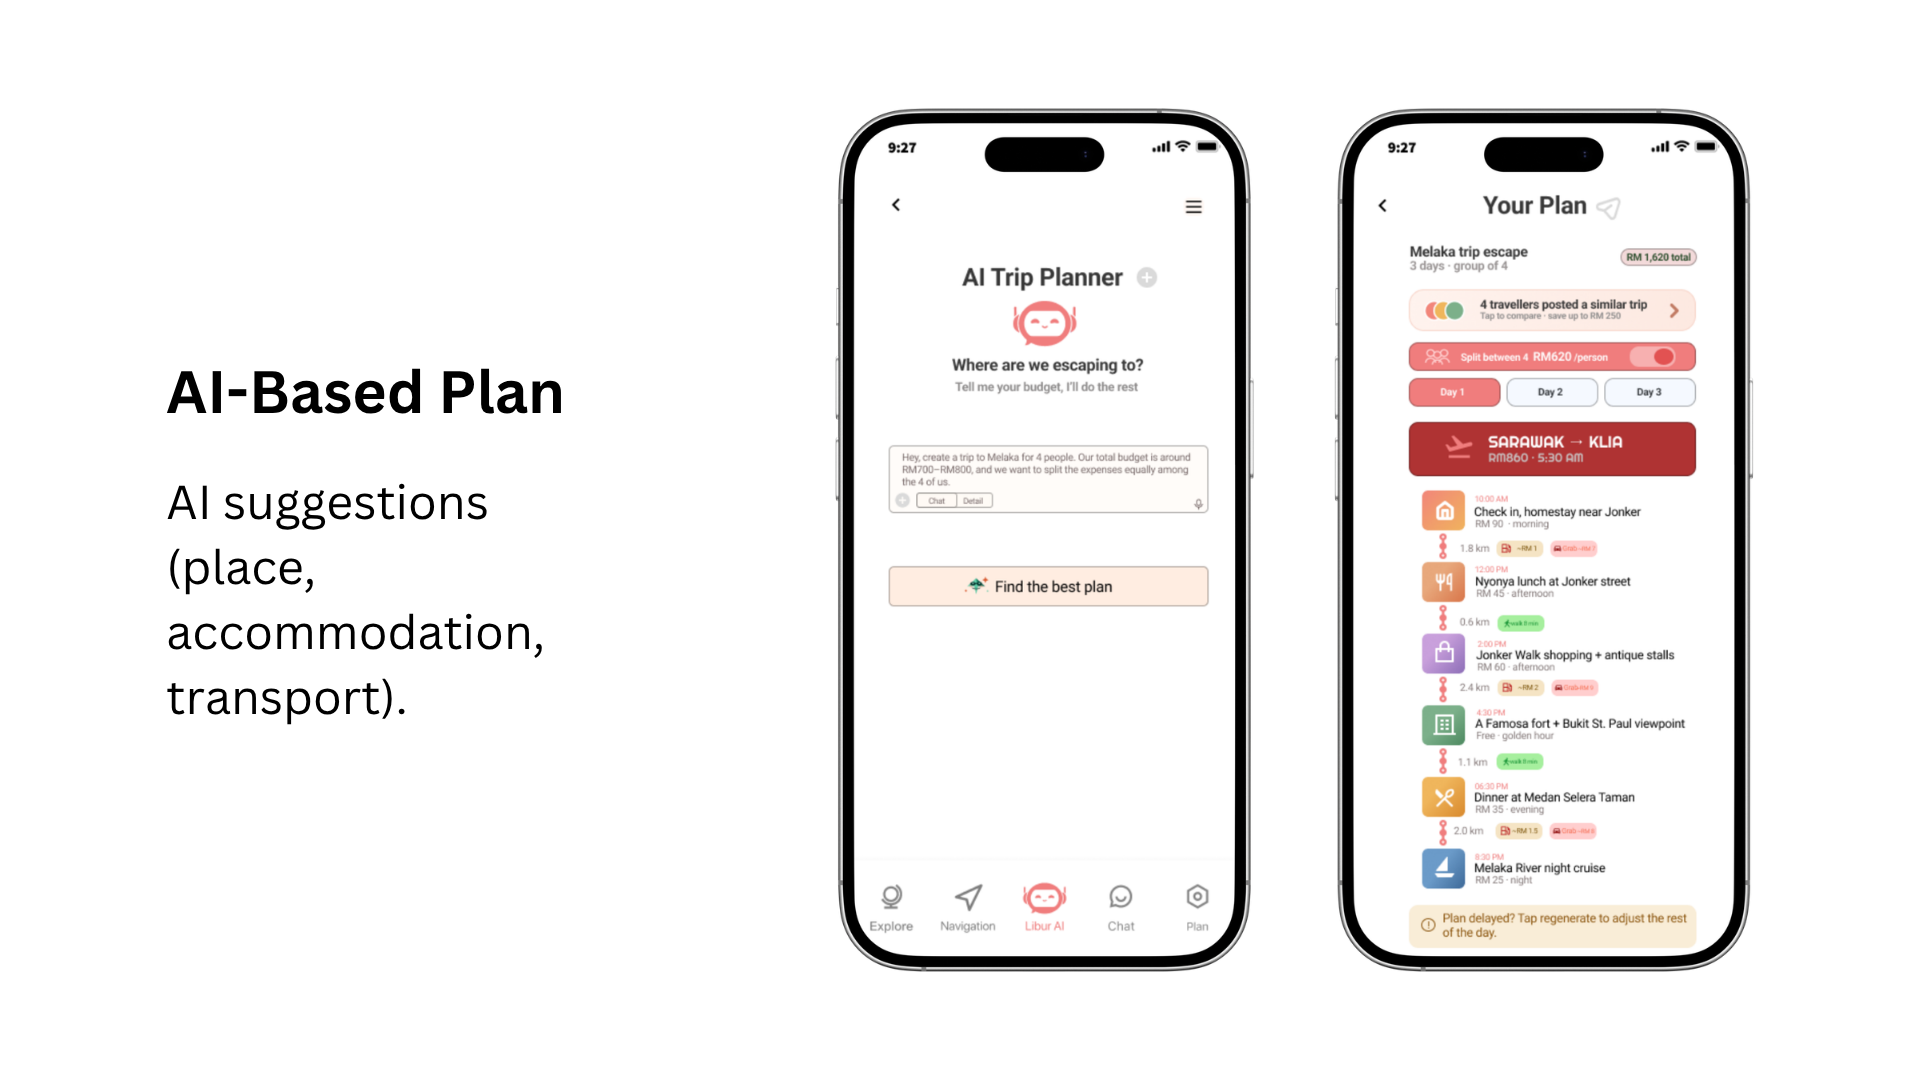
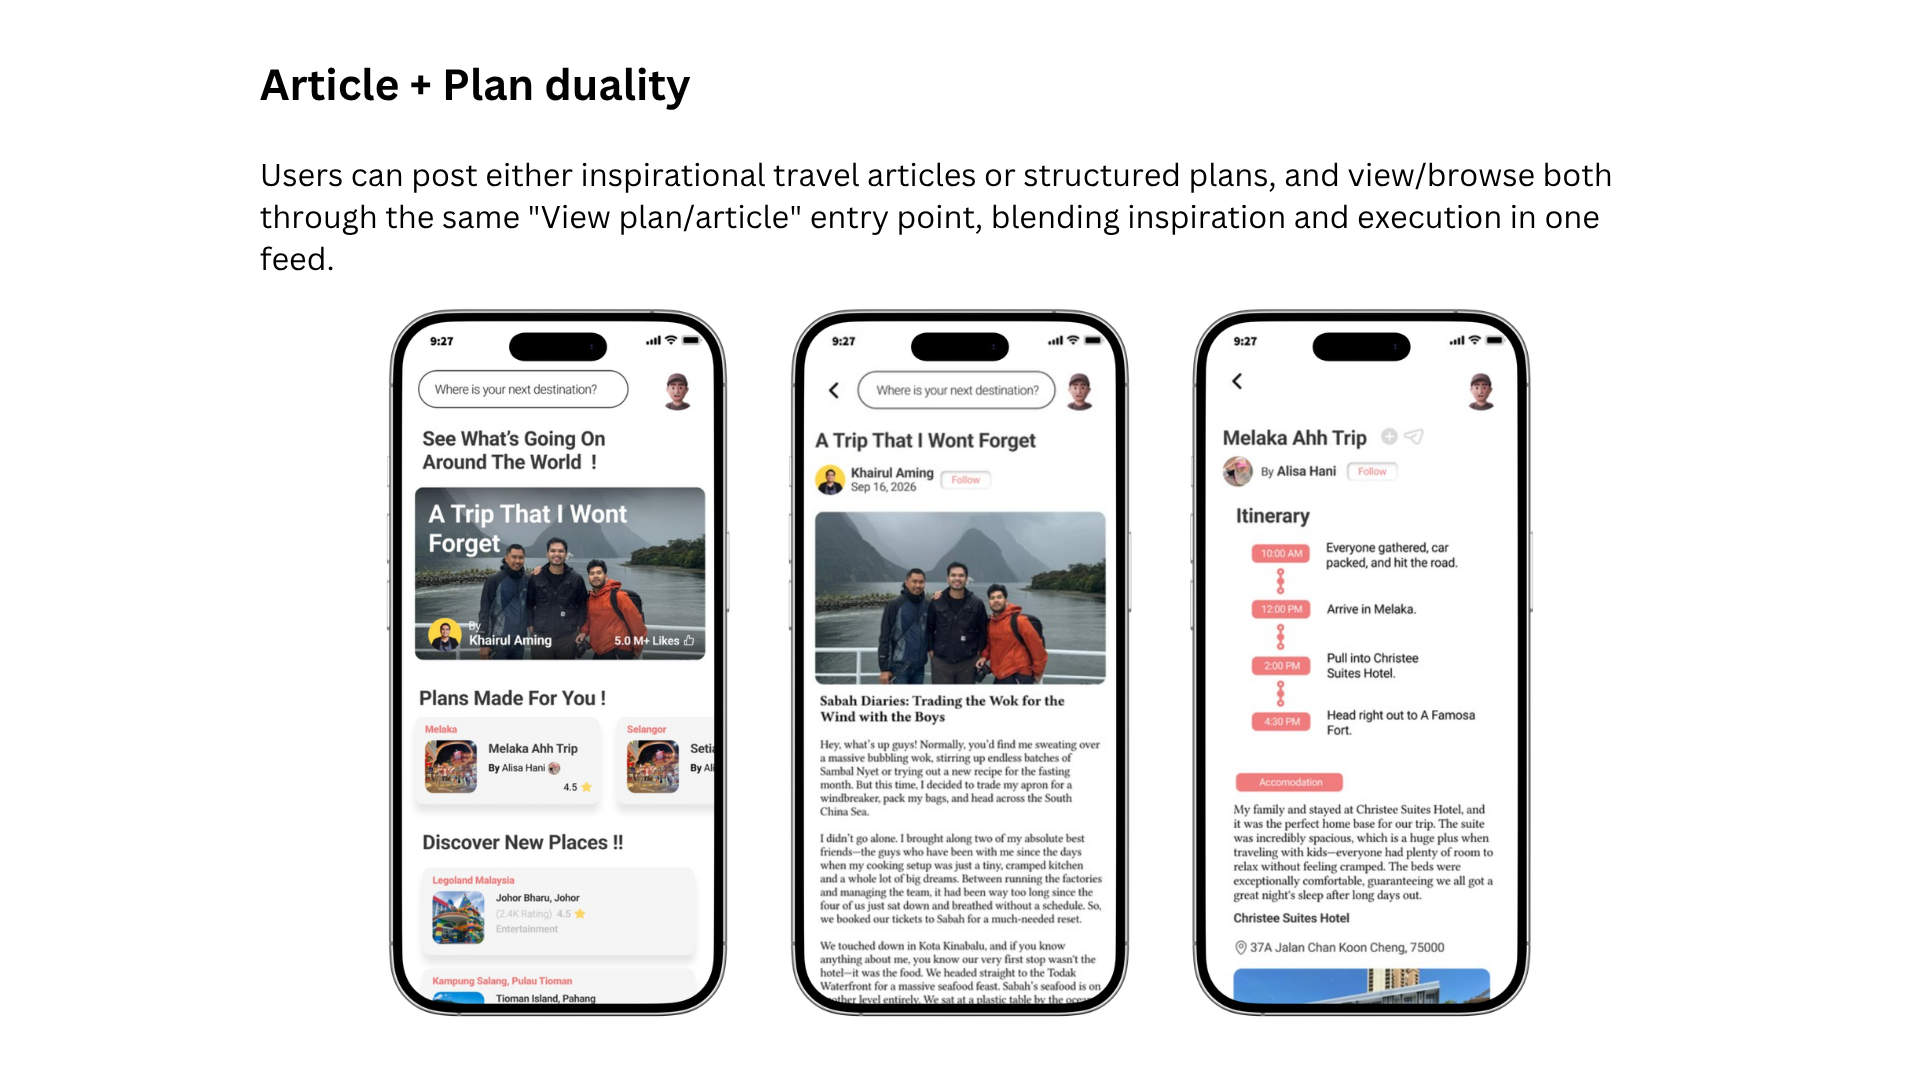
Update

Changed region(s): [[0.0938, 0.0917, 0.9375, 0.9472], [0.125, 0.0611, 0.375, 0.0917], [0.0938, 0.5194, 0.1562, 0.55]]

diff --git a/README.md b/README.md
@@ -40,10 +40,10 @@ The final use-case diagram wasn't just documentation — it was used directly as
 ![Ideation board](./assets/ideation-board.png)
 
 **AI-Based Plan UI/UX**
-![AI-Based Plan UI/UX](./assets/Mockup%20Page%20(1).png)
+![AI-Based Plan UI/UX](./assets/Mockup%20Page.png)
 
 **Article + Plan duality UI/UX**
-![Article + Plan duality UI/UX](./assets/Mockup%20Page.png)
+![Article + Plan duality UI/UX](./assets/Mockup%20Page%20(1).png)
 
 **Voting UI/UX**
 ![Voting UI/UX](./assets/Mockup%20Page%20(2).png)
